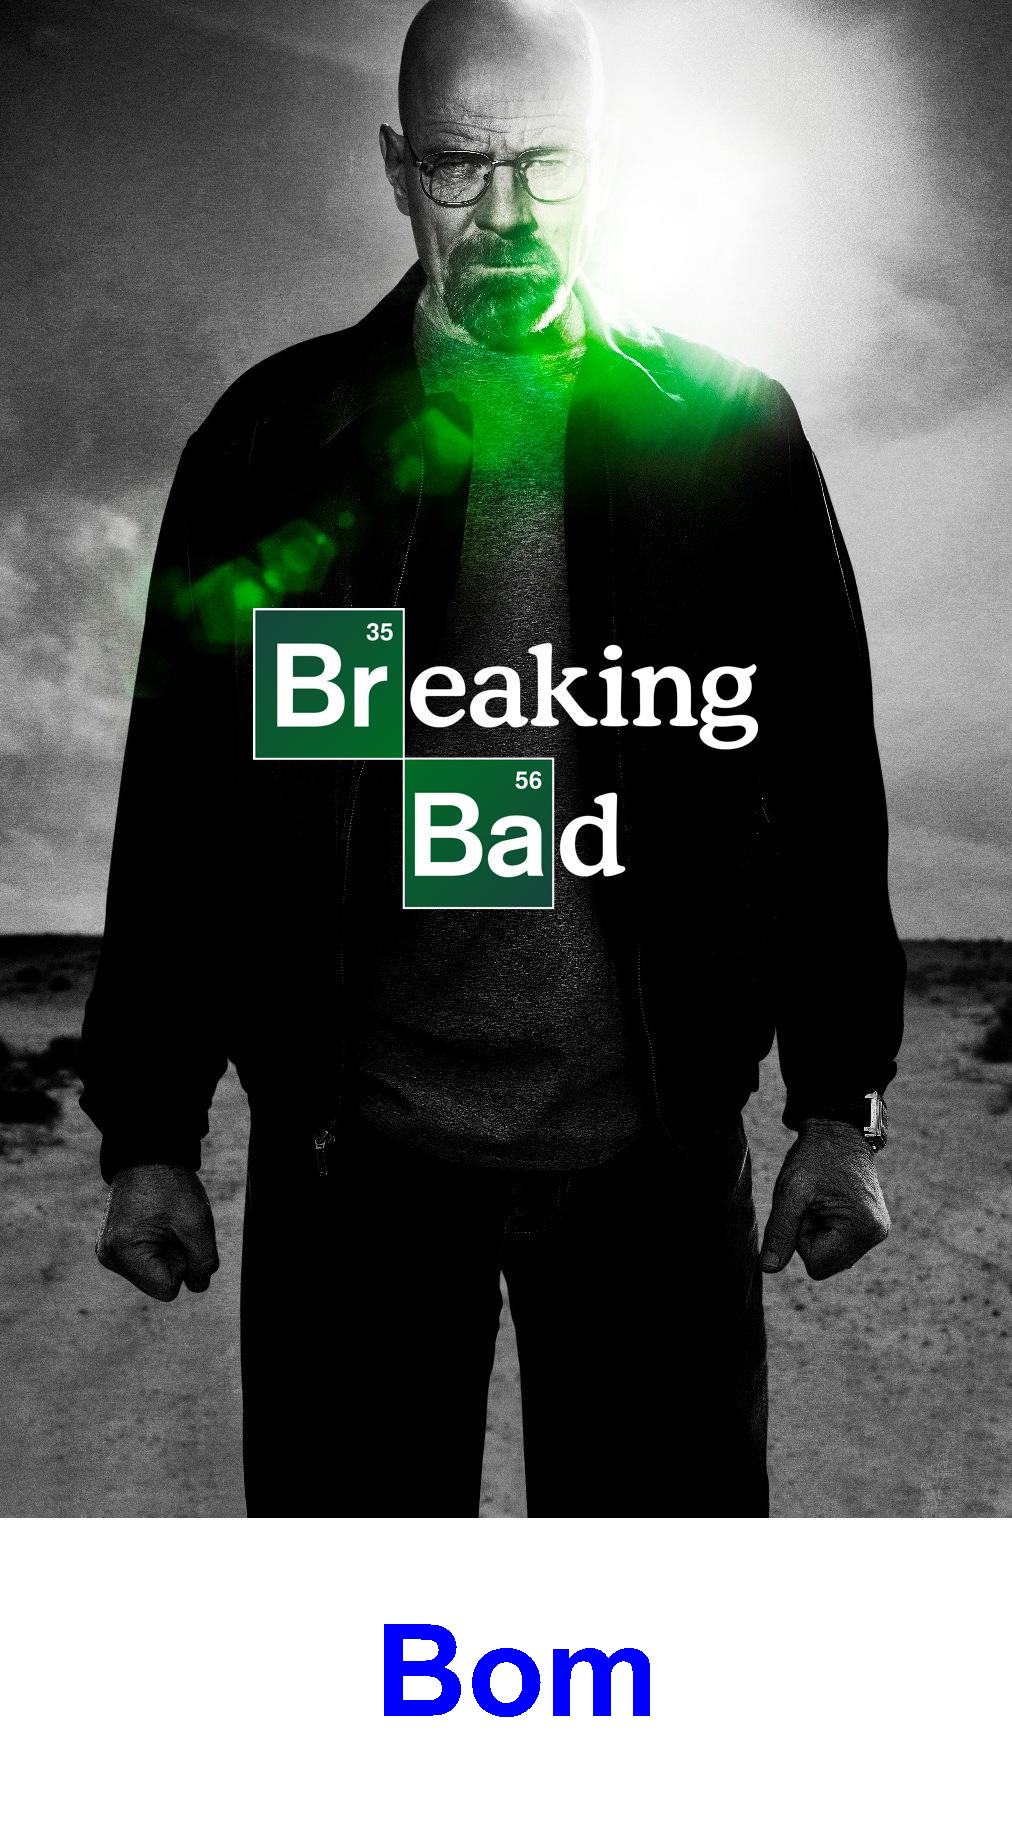
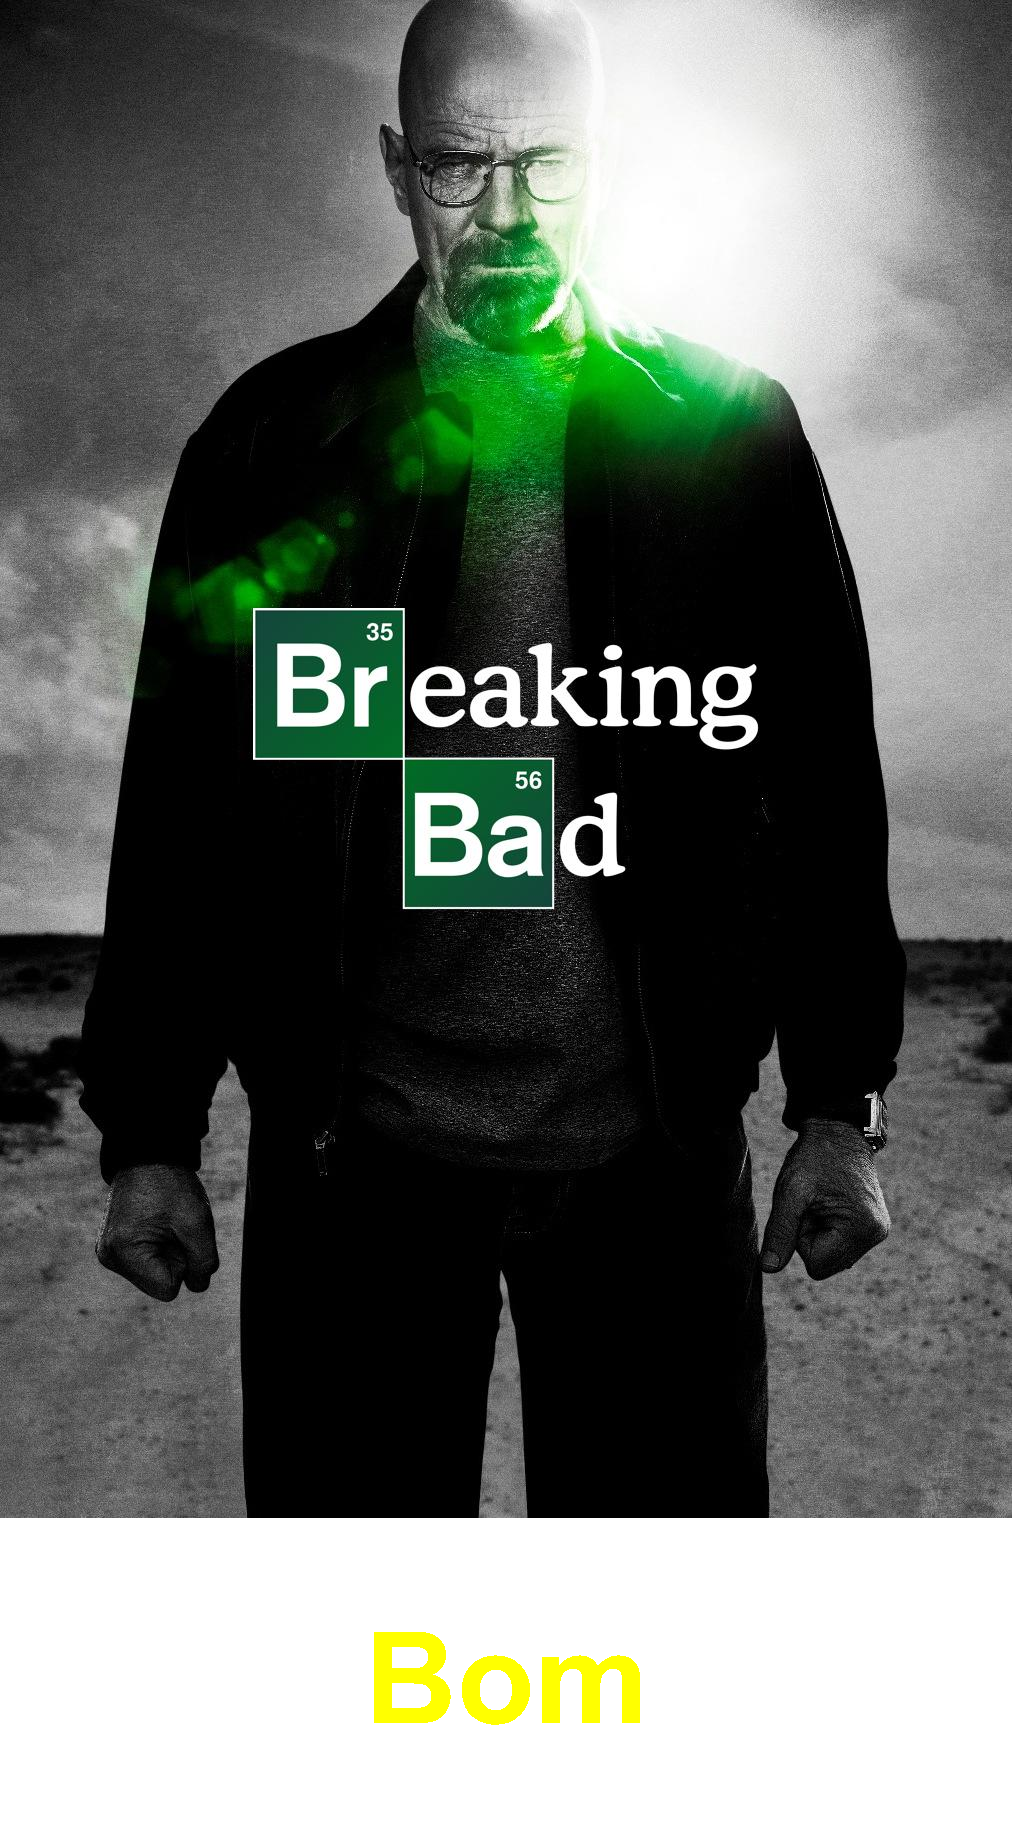
Desafio 2

Changed region(s): [[0.3676, 0.8918, 0.6433, 0.9533]]

diff --git a/alura-stickers/src/ZapStickers.java b/alura-stickers/src/ZapStickers.java
@@ -1,6 +1,8 @@
 import java.awt.Color;
 import java.awt.Font;
+import java.awt.FontMetrics;
 import java.awt.Graphics2D;
+import java.awt.geom.Rectangle2D;
 import java.awt.image.BufferedImage;
 import java.io.File;
 import java.io.InputStream;
@@ -26,10 +28,19 @@ public class ZapStickers {
         // nova fonte
         var fonte = new Font(Font.SANS_SERIF, Font.BOLD, 128);
         graphics.setFont(fonte);
-        graphics.setColor(Color.blue);
+        graphics.setColor(Color.YELLOW);
 
         // escrever frase na nova imagem
-        graphics.drawString("Bom", largura*0.37f, altura*1.13f);
+        String texto = "Bom";
+        FontMetrics fontMetrics = graphics.getFontMetrics();
+        Rectangle2D retangulo = fontMetrics.getStringBounds(texto, graphics);
+        int alturaTexto = (int)retangulo.getHeight();
+        int larguraTexto = (int)retangulo.getWidth();
+
+        int posXTexto = (largura - larguraTexto)/2;
+        float posYTexto = (novaAltura - altura)/2 + altura + alturaTexto/3;
+
+        graphics.drawString(texto, posXTexto, posYTexto);
 
         // salvar em arquivo
         ImageIO.write(novaImagen, "png", new File(nomeArquivo));

diff --git a/README.md b/README.md
@@ -29,10 +29,12 @@ Utilizando Java no VS Code para acessar e consumir API do IMDB (Top 250 Filmes).
 
 3 - Utilizando variavel de ambiente para esconder chave de acesso.
 
+    // Definindo a variavel de ambiente no terminal.
     Utilizei no PowerShell:
-    $env:IMDB_KEY = "chave"                                         // Definindo a variavel de ambiente no terminal.
+    $env:IMDB_KEY = "chave"                                         
 
-    String url = "https://imdb-api.com/en/API/TopTVs/" + IMBD_KEY;  // Concatenando url + Chave de acesso da API no codigo.
+    // Concatenando url + Chave de acesso da API no codigo.
+    String url = "https://imdb-api.com/en/API/TopTVs/" + IMBD_KEY;  
 
 ## Aula 2
 
@@ -44,7 +46,25 @@ Importando imagens(arquivo local ou url), transformando em uma nova imagem .png 
 
 1 - Criando diretório para saida das imagens caso não exista.
 
+        // Gerando o diretório "saida/".
         var diretorio = new File("saida/");
-        diretorio.mkdir();                                  // Gerando o diretório "saida/".
+        diretorio.mkdir();                                  
 
-        gerador.Criar(inputStream, "saida/" + nomeArquivo); // Criando a imagem no diretório "saida/" + nome da série.
+        // Criando a imagem no diretório "saida/" + nome da série.
+        gerador.Criar(inputStream, "saida/" + nomeArquivo); 
+
+2 - Centralizando o texto na nova imagem.
+
+        // Texto + medidas
+        String texto = "Bom";
+        FontMetrics fontMetrics = graphics.getFontMetrics();
+        Rectangle2D retangulo = fontMetrics.getStringBounds(texto, graphics);
+        int alturaTexto = (int)retangulo.getHeight();
+        int larguraTexto = (int)retangulo.getWidth();
+
+        // Posição do texto em X e Y.
+        int posXTexto = (largura - larguraTexto)/2;
+        float posYTexto = (novaAltura - altura)/2 + altura + alturaTexto/3;
+
+        // Desenhando o texto na nova imagem.
+        graphics.drawString(texto, posXTexto, posYTexto);
